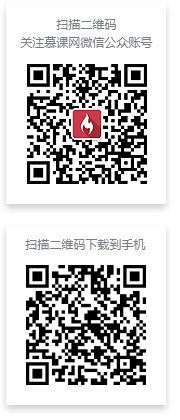
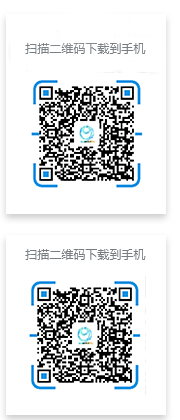
替换静态资源中的二维码；将文件大小添加进返回头部中

diff --git a/src/main/java/cn/canlnac/OnlineCourseFronten/controller/FileController.java b/src/main/java/cn/canlnac/OnlineCourseFronten/controller/FileController.java
@@ -65,6 +65,8 @@ public class FileController {
 
             //文件存在
             long len = file.length();
+            //将文件大小添加进返回头部中
+            response.setContentLength((int) len);
             byte[] bytes = new byte[(int)len];
 
             BufferedInputStream bufferedInputStream = new BufferedInputStream(new FileInputStream(file));
